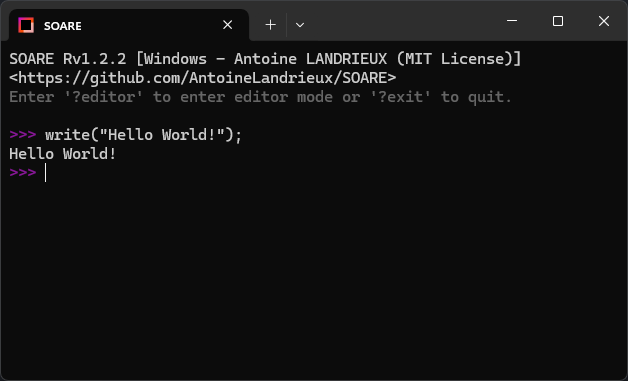
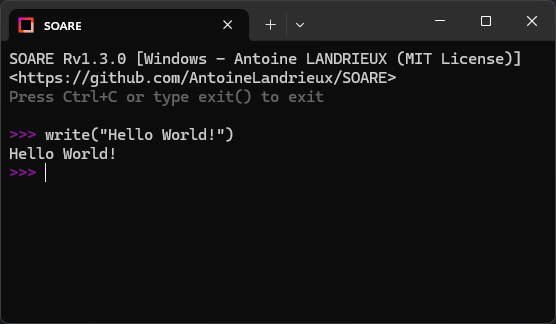
Update images and CHANGELOG.md

Changed region(s): [[0.0, 0.0309, 1.0, 0.4938], [0.0, 0.5247, 0.0612, 0.5556], [0.3363, 0.0617, 0.3669, 0.0926]]

diff --git a/resources/github/README.md b/resources/github/README.md
@@ -5,6 +5,6 @@
 
 ![interpreter](interpreter.png)
 
-## Editor
+## Example
 
-![editor](editor.png)
+![example](example.png)

diff --git a/CHANGELOG.md b/CHANGELOG.md
@@ -14,3 +14,7 @@
 ## v1.2.3+
 
 - Introducing `as` keyword
+
+## v1.3.0+
+
+- Better syntax, optimize code
